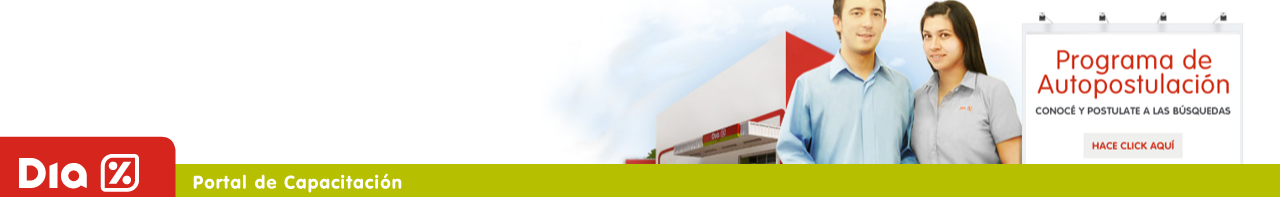
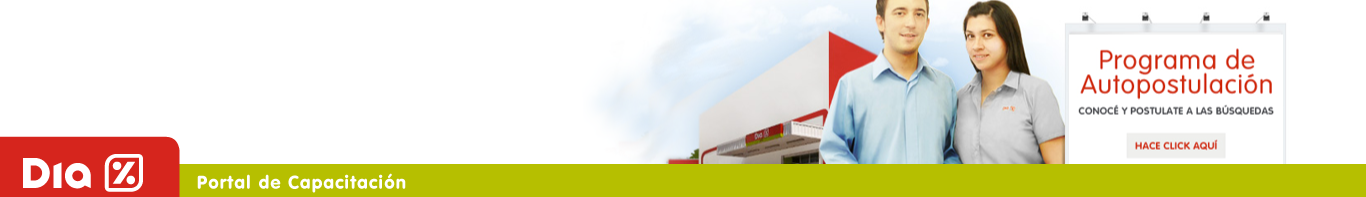
css

Changed region(s): [[0.5, 0.0, 0.9688, 0.8528], [0.0, 0.7005, 0.3125, 1.0]]

diff --git a/fvdia/less/bootswatch.less b/fvdia/less/bootswatch.less
@@ -7,7 +7,7 @@ html{
 }
 
 body{
-  max-width: 1280px;
+  max-width: 1366px;
 }
 
 label{
